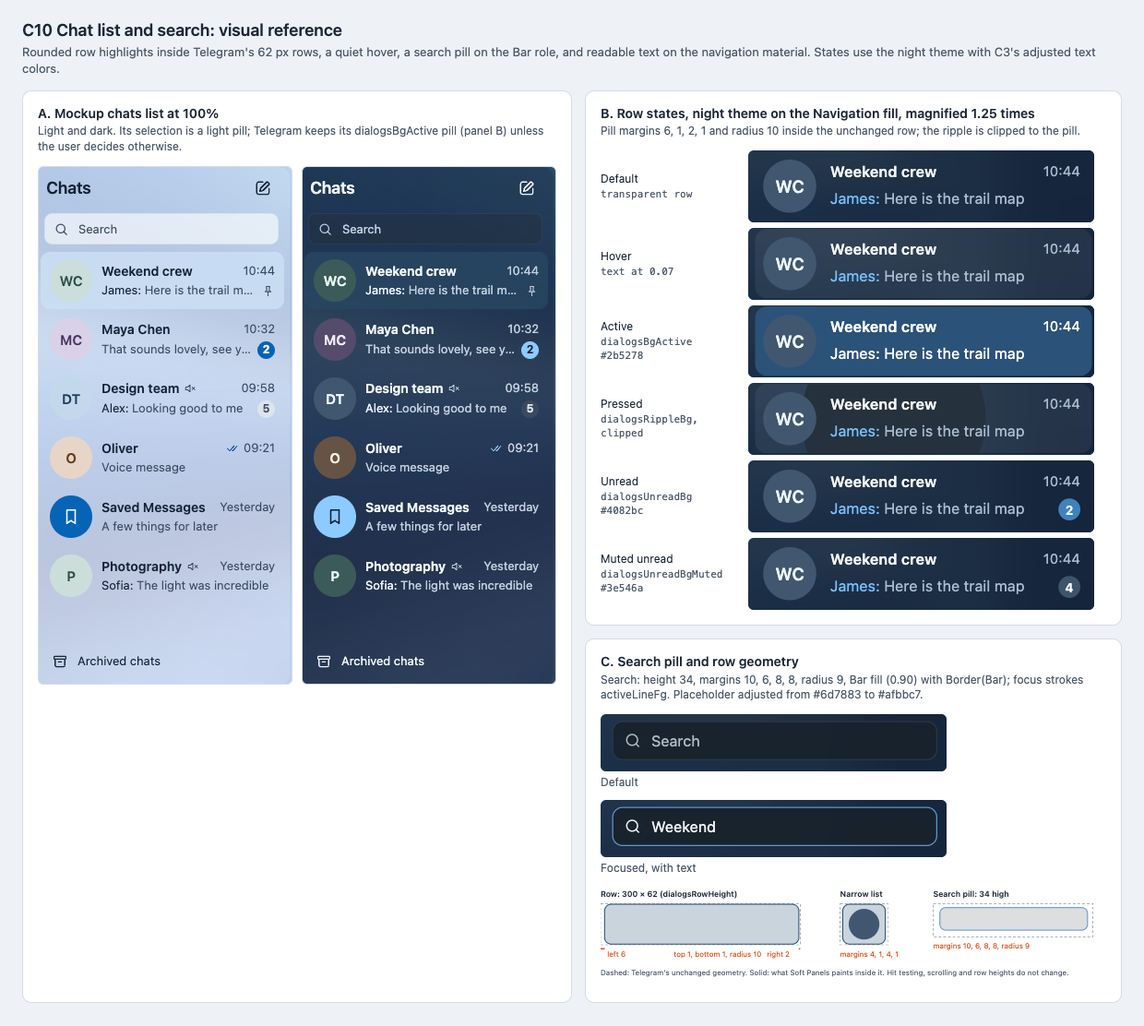
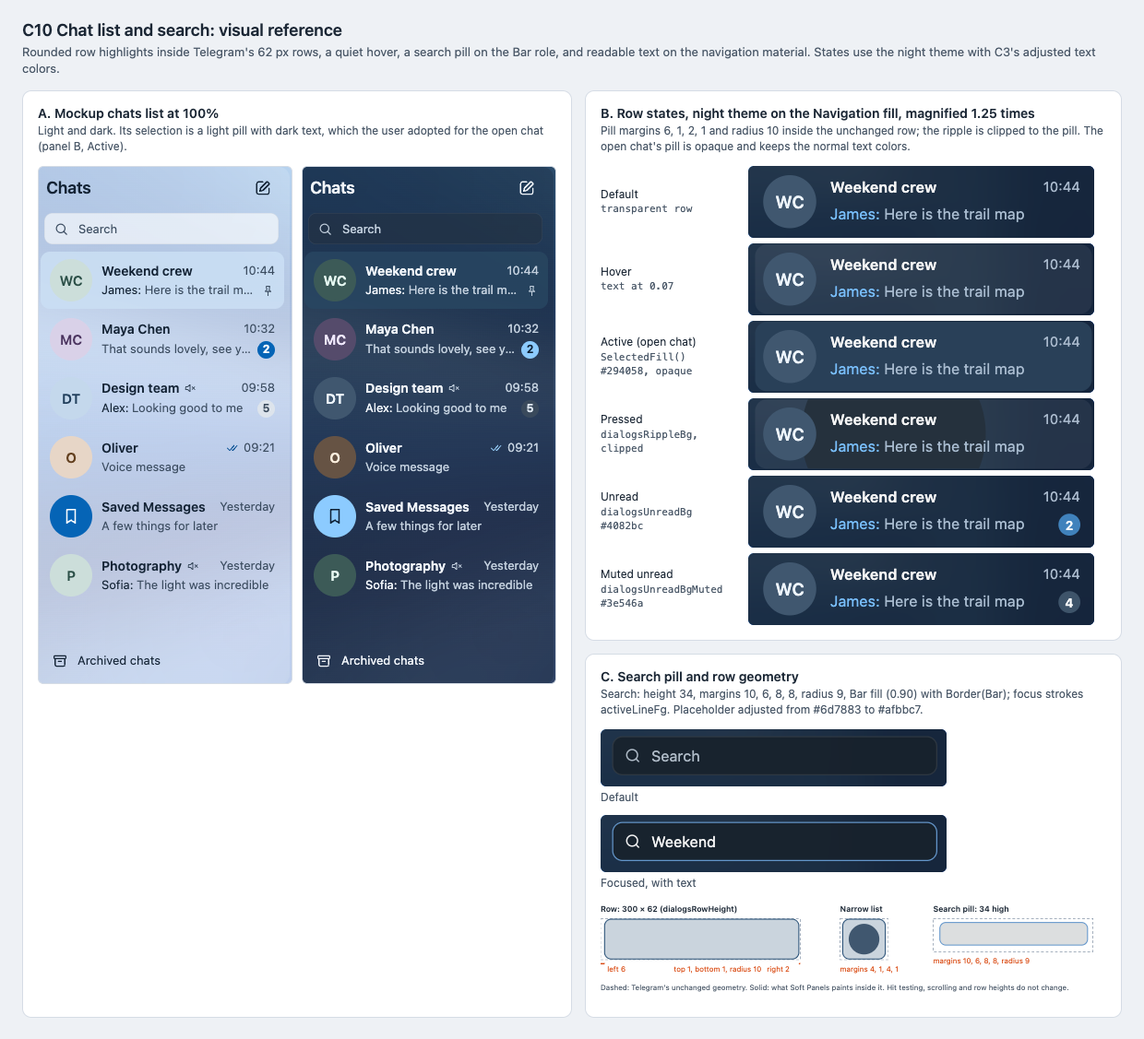
Resolved plan clashes and updated rail and list references.

diff --git a/docs/ui-modernization/component-references/c9-navigation-rail/navigation-rail.html b/docs/ui-modernization/component-references/c9-navigation-rail/navigation-rail.html
@@ -30,19 +30,18 @@ figcaption { margin-top: 4px; font-size: 12px; color: var(--page-muted); }
 .zoom { position: relative; isolation: isolate; height: 100px; border-radius: 6px; overflow: hidden; }
 .zoom::before { content: ""; position: absolute; inset: 0; z-index: -2; background: conic-gradient(from 218deg at 78% 54%, #122b5b 0deg, #2860a2 11deg, #78b6eb 25deg, #142d5f 40deg, #386fb5 52deg, #b9d4ec 64deg, #162f63 67deg, #1b4582 76deg, #7eb6de 93deg, #132c5b 108deg, #1c3d77 190deg, #122b5b 360deg); }
 .zoom .nav { position: absolute; inset: 0; z-index: -1; backdrop-filter: blur(32px) saturate(1.45); -webkit-backdrop-filter: blur(32px) saturate(1.45); background: var(--nav); }
-.zoom .scale { position: absolute; left: 50%; top: 50%; width: 72px; height: 62px; transform: translate(-50%, -50%) scale(1.5); }
-.light { --nav: rgba(233, 238, 245, .78); --text: #132335; --secondary: #3a4b5f; --accent: #004a8f; --accent-fill: #0564b6; --on-accent: #ffffff; --selected: #cbdff4; --hover: rgba(21, 38, 58, .06); --muted-fill: #dde4ec; --muted-text: #3b4b5d; --ring: #e9eef5; }
-.dark { --nav: rgba(27, 40, 56, .82); --text: #f2f6fb; --secondary: #c2cfdd; --accent: #9ad3ff; --accent-fill: #8ccbff; --on-accent: #0d1f33; --selected: #284661; --hover: rgba(238, 243, 249, .07); --muted-fill: #3a4a5c; --muted-text: #dbe4ee; --ring: #1b2838; }
+.zoom .scale { position: absolute; left: 50%; top: 50%; width: 64px; height: 62px; transform: translate(-50%, -50%) scale(1.5); }
+.light { --nav: rgba(233, 238, 245, .78); --text: #132335; --secondary: #3a4b5f; --accent: #004a8f; --accent-fill: #0564b6; --on-accent: #ffffff; --selected: #c6e5f7; --hover: rgba(21, 38, 58, .06); --muted-fill: #dde4ec; --muted-text: #3b4b5d; --ring: #e9eef5; }
+.dark { --nav: rgba(27, 40, 56, .82); --text: #f2f6fb; --secondary: #c2cfdd; --accent: #9ad3ff; --accent-fill: #8ccbff; --on-accent: #0d1f33; --selected: #294058; --hover: rgba(238, 243, 249, .07); --muted-fill: #3a4a5c; --muted-text: #dbe4ee; --ring: #1b2838; }
 .btn { position: absolute; left: 6px; right: 6px; top: 4px; height: 54px; border-radius: 10px; display: flex; flex-direction: column; align-items: center; justify-content: center; gap: 3px; color: var(--secondary); font-size: 11px; }
 .btn svg { width: 20px; height: 20px; fill: none; stroke: currentColor; stroke-width: 1.7; stroke-linecap: round; stroke-linejoin: round; }
 .btn[data-state="hover"] { background: var(--hover); }
-.btn[data-state="selected"], .btn[data-state="focused"], .btn[data-state="dragging"] { background: var(--selected); color: var(--text); }
-.btn[data-state="selected"] svg, .btn[data-state="focused"] svg, .btn[data-state="dragging"] svg { color: var(--accent); }
+.btn[data-state="selected"], .btn[data-state="focused"], .btn[data-state="dragging"] { background: var(--selected); color: var(--accent); }
 .btn[data-state="focused"] { outline: 2px solid var(--accent); outline-offset: -2px; }
 .btn[data-state="dragging"] { top: -2px; box-shadow: 0 4px 10px rgba(0, 0, 0, .22); }
 .marker { position: absolute; left: 0; top: 21px; width: 3px; height: 20px; border-radius: 2px; background: var(--accent); }
 .dragging .marker { top: 15px; }
-.badge { position: absolute; top: 2px; left: 35px; min-width: 17px; height: 17px; padding: 0 5px; border-radius: 9px; display: grid; place-items: center; font-size: 10px; font-weight: 700; line-height: 1; background: var(--accent-fill); color: var(--on-accent); box-shadow: 0 0 0 2px var(--ring); }
+.badge { position: absolute; top: 2px; left: 31px; min-width: 17px; height: 17px; padding: 0 5px; border-radius: 9px; display: grid; place-items: center; font-size: 10px; font-weight: 700; line-height: 1; background: var(--accent-fill); color: var(--on-accent); box-shadow: 0 0 0 2px var(--ring); }
 .badge[data-muted] { background: var(--muted-fill); color: var(--muted-text); }
 .values { margin-top: 12px; display: grid; grid-template-columns: repeat(4, 1fr); gap: 6px 14px; font-size: 12px; }
 .values div span { color: var(--page-muted); }
@@ -64,16 +63,16 @@ figcaption { margin-top: 4px; font-size: 12px; color: var(--page-muted); }
     </section>
     <div class="stack">
     <section class="panel">
-      <h2>B. Button states at Telegram's rail width (72 px), magnified 1.5 times</h2>
-      <p class="lead">Pills and the marker are painted on FiltersMenu's container under transparent SideBarButtons. Each state must stay reachable by mouse and keyboard.</p>
+      <h2>B. Button states at the Soft Panels rail width (64 px), magnified 1.5 times</h2>
+      <p class="lead">A light rail, as the user chose: labels in windowSubTextFg and icons in menuIconFg, the selected pill opaque SelectedFill() with label and icon in windowActiveTextFg. Pills and the marker are painted on FiltersMenu's container under transparent SideBarButtons. Each state must stay reachable by mouse and keyboard.</p>
       <div class="states" data-states></div>
       <div class="values">
-        <div><span>Rail width</span><br><span class="mono">windowFiltersWidth 72</span></div>
+        <div><span>Rail width</span><br><span class="mono">windowFiltersSoftPanelsWidth 64</span></div>
         <div><span>Button</span><br><span class="mono">min height 54, radius 10</span></div>
         <div><span>Container padding, gap</span><br><span class="mono">4, 6, 8; 4</span></div>
         <div><span>Marker</span><br><span class="mono">3 × 20, radius 2, x 0</span></div>
         <div><span>Hover</span><br><span class="mono">text at 0.06 / 0.07</span></div>
-        <div><span>Selected</span><br><span class="mono">sideBarBgActive; Bar fill tint</span></div>
+        <div><span>Selected</span><br><span class="mono">SelectedFill(), opaque</span></div>
         <div><span>Badge</span><br><span class="mono">height 17, ring 2 in Navigation fill</span></div>
         <div><span>Muted badge</span><br><span class="mono">sideBarBadgeBgMuted</span></div>
       </div>

diff --git a/docs/ui-modernization/component-references/c10-chat-list/chat-list.html b/docs/ui-modernization/component-references/c10-chat-list/chat-list.html
@@ -23,7 +23,7 @@ figcaption { margin-top: 4px; font-size: 12px; color: var(--page-muted); }
 .crop { width: 276px; height: 562px; border-radius: 6px; border: 1px solid var(--page-line); background-repeat: no-repeat; background-size: 956px 656px; background-position: -96px -60px; }
 
 /* Night theme on the Navigation fill (0.82) over Blue folds, text adjusted by C3. */
-.night { --nav: rgba(23, 33, 43, .82); --name: #f5f5f5; --text: #a8bbcf; --date: #abbbce; --service: #79bffc; --active: #2b5278; --active-fg: #ffffff; --hover: rgba(245, 245, 245, .07); --ripple: #25313d; --unread: #4082bc; --muted: #3e546a; --badge-fg: #ffffff; --placeholder: #afbbc7; --bar: rgba(23, 33, 43, .90); --edge: rgba(245, 245, 245, .10); --focus: #6396cb; }
+.night { --nav: rgba(23, 33, 43, .82); --name: #f5f5f5; --text: #a8bbcf; --date: #abbbce; --service: #79bffc; --active: #294058; --hover: rgba(245, 245, 245, .07); --ripple: #25313d; --unread: #4082bc; --muted: #3e546a; --badge-fg: #ffffff; --placeholder: #afbbc7; --bar: rgba(23, 33, 43, .90); --edge: rgba(245, 245, 245, .10); --focus: #6396cb; }
 .desk { position: relative; isolation: isolate; border-radius: 6px; overflow: hidden; }
 .desk::before { content: ""; position: absolute; inset: 0; z-index: -2; background: conic-gradient(from 218deg at 78% 54%, #122b5b 0deg, #2860a2 11deg, #78b6eb 25deg, #142d5f 40deg, #386fb5 52deg, #b9d4ec 64deg, #162f63 67deg, #1b4582 76deg, #7eb6de 93deg, #132c5b 108deg, #1c3d77 190deg, #122b5b 360deg); }
 .desk .nav { position: absolute; inset: 0; z-index: -1; backdrop-filter: blur(32px) saturate(1.45); -webkit-backdrop-filter: blur(32px) saturate(1.45); background: var(--nav); }
@@ -40,8 +40,6 @@ figcaption { margin-top: 4px; font-size: 12px; color: var(--page-muted); }
 .list-row .text b { font-weight: 400; color: var(--service); }
 .list-row .badge { position: absolute; right: 12px; top: 33px; min-width: 19px; height: 19px; padding: 0 6px; border-radius: 10px; background: var(--unread); color: var(--badge-fg); font-size: 11px; font-weight: 600; display: grid; place-items: center; }
 .list-row .badge.muted { background: var(--muted); }
-.list-row[data-state="active"] { color: var(--active-fg); }
-.list-row[data-state="active"] .date, .list-row[data-state="active"] .text, .list-row[data-state="active"] .text b { color: var(--active-fg); }
 .scaled { transform: scale(1.25); transform-origin: 0 0; }
 .cell { width: 375px; height: 78px; }
 
@@ -62,7 +60,7 @@ svg text { font-family: "Segoe UI Variable Text", "Segoe UI", system-ui, sans-se
   <div class="row-layout">
     <section class="panel">
       <h2>A. Mockup chats list at 100%</h2>
-      <p class="lead">Light and dark. Its selection is a light pill; Telegram keeps its dialogsBgActive pill (panel B) unless the user decides otherwise.</p>
+      <p class="lead">Light and dark. Its selection is a light pill with dark text, which the user adopted for the open chat (panel B, Active).</p>
       <div class="crops">
         <div class="crop" style="background-image:url(../c7-shell-layout/mockup-light.png)"></div>
         <div class="crop" style="background-image:url(../c7-shell-layout/mockup-dark.png)"></div>
@@ -71,7 +69,7 @@ svg text { font-family: "Segoe UI Variable Text", "Segoe UI", system-ui, sans-se
     <div class="stack">
       <section class="panel">
         <h2>B. Row states, night theme on the Navigation fill, magnified 1.25 times</h2>
-        <p class="lead">Pill margins 6, 1, 2, 1 and radius 10 inside the unchanged row; the ripple is clipped to the pill.</p>
+        <p class="lead">Pill margins 6, 1, 2, 1 and radius 10 inside the unchanged row; the ripple is clipped to the pill. The open chat's pill is opaque and keeps the normal text colors.</p>
         <div class="states" data-states></div>
       </section>
       <section class="panel">
@@ -100,7 +98,7 @@ svg text { font-family: "Segoe UI Variable Text", "Segoe UI", system-ui, sans-se
   const states = [
     ['Default', 'transparent row', row('default')],
     ['Hover', 'text at 0.07', row('hover')],
-    ['Active', 'dialogsBgActive #2b5278', row('active')],
+    ['Active (open chat)', 'SelectedFill() #294058, opaque', row('active')],
     ['Pressed', 'dialogsRippleBg, clipped', row('pressed')],
     ['Unread', 'dialogsUnreadBg #4082bc', row('default', { badge: 'unread' })],
     ['Muted unread', 'dialogsUnreadBgMuted #3e546a', row('default', { badge: 'muted' })],

diff --git a/docs/ui-modernization/plans/2026-10-29-info-settings.md b/docs/ui-modernization/plans/2026-10-29-info-settings.md
@@ -25,8 +25,8 @@
 
 ## Review Focus
 
-- Info pane opened in the third column, then the window narrowed until it moves to a layer: the background switches role without a stale panel. Pinned by Task 1 Step 4.
-- Shared media tabs in a profile (`info_profile_tabs_host.cpp` slide grabs): no opaque frames. Pinned by Task 1 Step 3.
+- Info pane opened in the third column, then the window narrowed until it moves to a layer: the background switches role without a stale panel. Pinned by Task 1 Step 5.
+- Shared media tabs in a profile (`info_profile_tabs_host.cpp` slide grabs): no opaque frames. Pinned by Task 1 Step 4.
 - Passcode lock with material on: the unlock field stays readable on the busiest test wallpaper. Pinned by Task 2 Step 3.
 - Sign-in with a QR code: the QR stays black on white, never on material. Pinned by Task 2 Step 3.
 - Upgrade from a build with the experimental switch on: Soft Panels stays on after promotion. Pinned by Task 3 Step 3.
@@ -39,6 +39,7 @@
 - Modify: `Telegram/SourceFiles/info/info_content_widget.cpp`, `info/info_top_bar.cpp`, `info/info_wrap_widget.cpp`
 - Modify: `Telegram/SourceFiles/info/profile/tabs/info_profile_tabs_host.cpp`, `info/media/info_media_grid_zoom.cpp`, `info/profile/info_profile_balance_pill.cpp`
 - Modify: `Telegram/SourceFiles/settings/settings_intro.cpp`
+- Modify: `Telegram/SourceFiles/info/info.style`, `info/profile/info_profile_top_bar.cpp`, `settings/sections/settings_premium.cpp`, `settings_credits.cpp`, `settings_business.cpp`, `info/bot/starref/info_bot_starref_join_widget.cpp`, `info_bot_starref_setup_widget.cpp`
 
 **Interfaces:**
 - Consumes: `Ui::ControlFill` and the soft controls switch from [shared controls](2026-10-30-shared-controls.md), which already maps `SettingsButton`, `PeerListContent` and `BoxContentDivider`.
@@ -47,25 +48,29 @@
 
 `ContentWidget::paintEvent` fills `_bg`: paint it with `PaintSurface(..., Surface::Conversation, _bg)` when the content is in a panel, or `Surface::Popup` when its wrap is a layer (`Info::Wrap::Layer`); replace its opaque attribute with `SetOpaquePaint(this, true)`. Same for `TopBar::paintEvent`'s brush fill; keep its existing `_roundRect` rule for the opaque attribute.
 
-- [ ] **Step 2: Settings intro and rows**
+- [ ] **Step 2: Top bar height**
+
+The chat header is `softPanelsTopBarHeight` (56 px, C11) under Soft Panels, so the info pane's top bar in the third column must match it. Add `infoTopBarSoftPanels: InfoTopBar(infoTopBar)` to `info.style` (with `using "window/window_soft_panels.style"`), with `height: softPanelsTopBarHeight`, back, close and search buttons of the same height, and the title position moved down by half the difference. Add `[[nodiscard]] const style::InfoTopBar &Info::TopBarStyle();` returning it under Soft Panels and `st::infoTopBar` otherwise, and use it at every read of `st::infoTopBar`: `info_wrap_widget.cpp`, `info_profile_top_bar.cpp`, `settings_premium.cpp`, `settings_credits.cpp`, `settings_business.cpp` and the two star referral widgets. The layer top bar (`infoLayerTopBar`) is already 56 px and stays.
+
+- [ ] **Step 3: Settings intro and rows**
 
 `settings_intro.cpp` sets `WA_OpaquePaintEvent` on its wrap: use `SetOpaquePaint`.
 
 Every row is a `Ui::SettingsButton`. The row styles `settingsButton` and `infoProfileButton` derive from `lib_ui`'s `defaultSettingsButton` and are used in 53 files, and each row paints its `textBg` (`windowBg`) under itself. C17 already maps that fill and the `windowBgOver` hover, and turns divider bands into the soft band. Check every top-level settings section for a row style whose `textBg` is not a surface color; such a row keeps its fill, so record it with the reason.
 
-- [ ] **Step 3: Grabs**
+- [ ] **Step 4: Grabs**
 
 The grab audit assigned `info_wrap_widget.cpp`, `info_profile_tabs_host.cpp`, `info_media_grid_zoom.cpp` and `info_profile_balance_pill.cpp` here: convert each animation grab to `Ui::Material::Grab` and paint the role under the animation, as C5 did for sections.
 
-- [ ] **Step 4: Build and check**
+- [ ] **Step 5: Build and check**
 
 Run: `cmd /c .ai\setup\build-target.cmd Telegram`
-Open a user, group and channel profile in the third column; switch shared media tabs; zoom the media grid; open Settings and walk every top-level section; narrow the window so the info pane becomes a layer and widen it back.
+Open a user, group and channel profile in the third column; switch shared media tabs; zoom the media grid; open Settings and walk every top-level section; narrow the window so the info pane becomes a layer and widen it back. With a chat and its info pane side by side, the two headers share one bottom line.
 
-- [ ] **Step 5: Commit**
+- [ ] **Step 6: Commit**
 
 ```bash
-git add Telegram/SourceFiles/info Telegram/SourceFiles/settings/settings_intro.cpp
+git add Telegram/SourceFiles/info Telegram/SourceFiles/settings/settings_intro.cpp Telegram/SourceFiles/settings/sections
 git commit -m "Brought info and settings sections into Soft Panels."
 ```
 

diff --git a/docs/ui-modernization/component-references/c9-navigation-rail/README.md b/docs/ui-modernization/component-references/c9-navigation-rail/README.md
@@ -6,7 +6,7 @@ Date: 2026-10-29. Status: proposal. Component: C9 in the
 
 C9 restyles the folder rail and the main menu drawer on the shared
 navigation material. This reference shows the mockup's rail and drawer, and
-every button state the plan lists at Telegram's own rail width.
+every button state the plan lists at the Soft Panels rail width.
 
 ## Files
 
@@ -24,19 +24,20 @@ every button state the plan lists at Telegram's own rail width.
 | Panel | Plan task | What it pins |
 | --- | --- | --- |
 | A. Mockup rail | Task 1 | Menu button, folders with icon and label, selected pill with marker, badges, Edit at the bottom. |
-| B. Button states | Tasks 1–2, Task 4 States row | Default, hover, selected, keyboard focus, unread badge, muted-only badge and dragging, light and dark, at 72 px and magnified 1.5 times, with the plan's sizes listed below them. |
+| B. Button states | Tasks 1–2, Task 4 States row | Default, hover, selected, keyboard focus, unread badge, muted-only badge and dragging, light and dark, on the light rail at 64 px and magnified 1.5 times, with the plan's sizes listed below them. |
 | C. Main menu drawer | Task 3 | Popup fill, rounded right corners, rounded rows, and the layer dim outside the corners. |
 
 ## Notes
 
-- The mockup's rail is 64 px. Panel B uses Telegram's 72 px; the user then
-  adopted 64 px under Soft Panels (2026-10-31).
-- Colors are the mockup's tokens (`--selected`, `--hover`, `--accent`,
-  `--muted-fill`). The app uses its palette entries (`sideBarBgActive`,
-  `sideBarBadgeBgMuted` and others). In the day theme they were made for a
-  dark sidebar. The user chose a light rail (2026-10-31): under Soft Panels
-  it takes the chats list's colors and `Ui::Material::SelectedFill()`, close
-  to the mockup's `--selected`.
+- The rail is 64 px, the mockup's width, which the user adopted under Soft
+  Panels (2026-10-31): `windowFiltersSoftPanelsWidth`. Telegram's 72 px stays
+  with Soft Panels off.
+- The user chose a light rail (2026-10-31). Panel B draws it: the selected
+  pill is the opaque `Ui::Material::SelectedFill()` (`#c6e5f7` day,
+  `#294058` night), and its label and icon take the accent color, as
+  `windowActiveTextFg` does. Other colors are the mockup's tokens (`--hover`,
+  `--accent`, `--muted-fill`); the app uses its palette entries, adjusted by
+  C3 and C18.
 - The keyboard focus ring is a proposal: a 2 px accent outline on the pill.
   Telegram's current focus style for `SideBarButton` must be rechecked in
   `lib_ui`.

diff --git a/docs/ui-modernization/component-references/c10-chat-list/README.md b/docs/ui-modernization/component-references/c10-chat-list/README.md
@@ -20,7 +20,7 @@ row states in the night theme and the exact geometry.
 | Panel | Plan task | What it pins |
 | --- | --- | --- |
 | A. Mockup list | Tasks 1–2 | Search pill, rows with avatars, unread and muted badges, archive row. |
-| B. Row states | Task 1, Task 3 Step 2 | Default, hover, active, pressed with the ripple clipped to the pill, unread and muted badges. Night theme colors on the Navigation fill (0.82). Names, previews and times use C3's adjusted colors. |
+| B. Row states | Task 1, Task 3 Step 2 | Default, hover, the open chat's opaque `SelectedFill()` pill with normal text colors, pressed with the ripple clipped to the pill, unread and muted badges. Night theme colors on the Navigation fill (0.82). Names, previews and times use C3's adjusted colors. |
 | C. Search and geometry | Tasks 1–2 | Search pill default and focused; row pill margins 6, 1, 2, 1 with radius 10; narrow-list margins 4, 1, 4, 1; search pill 34 high with margins 10, 6, 8, 8 and radius 9. |
 
 ## Contrast in the night theme
@@ -54,8 +54,9 @@ the Navigation fill (0.82 of `#17212b`) over black and white backdrops:
 ## Notes
 
 - The mockup's selection is a light pill with dark text. The user adopted it
-  (2026-10-31): under Soft Panels the open chat is a `SelectedFill()` pill
-  with normal text colors, which this sheet, drawn before, does not show.
+  (2026-10-31): under Soft Panels the open chat is the opaque
+  `SelectedFill()` pill (`#294058` in the night theme panel B draws) with
+  normal text colors, in place of `dialogsBgActive` with white text.
 - Row height (62), avatar size (46) and badge height (19) are Telegram's.
   The pill is painted inside the row, so hit testing and scrolling do not
   change.

diff --git a/docs/ui-modernization/plans/2026-10-29-navigation-rail.md b/docs/ui-modernization/plans/2026-10-29-navigation-rail.md
@@ -21,7 +21,7 @@
 - At 100 % scale: buttons `54` px minimum height (icons-only and main menu already use it), corner radius `10`, `4` px vertical gap, container padding `4, 6, 8` (top, sides, bottom); marker `3 × 20` px, radius `2`, at the rail's left edge, accent color.
 - Hover fill: primary text at alpha `0.06` (light) / `0.07` (dark), the exploration's `--hover`.
 - Light rail (user decision 2026-10-31): under Soft Panels the rail is part of the navigation panel, so its solid color is `dialogsBg` and its parallel styles take the chats list's colors: labels `windowSubTextFg`, icons `menuIconFg`, and the selected label and icon `windowActiveTextFg`. Each is already adjusted by C3 or C18 while material is active.
-- Selected fill: `Ui::Material::SelectedFill()` ([element styling](../architecture.md#element-styling-c9c15)), in solid and material mode. `sideBarBgActive` (`#17212b` in the day theme) is not used under Soft Panels.
+- Selected fill: `Ui::Material::SelectedFill()` ([element styling](../architecture.md#element-styling-c9c15)), opaque in solid and material mode, so the adjusted label and icon colors keep their contrast on it. `sideBarBgActive` (`#17212b` in the day theme) is not used under Soft Panels.
 - Without Soft Panels the rail keeps its upstream colors; while material is active they are raised by C3 (`sideBarTextFg`, `sideBarTextFgActive`, added here) and C18 (the icons).
 - Main menu: width stays `mainMenuWidth`; right corner radius `14`; row radius `8`; Popup role.
 - Every behavior stays: folder click, drag reorder in edit mode, context menu, unread counters, muted badges, "Edit" entry, premium lock, tab and keyboard order.

diff --git a/docs/ui-modernization/plans/2026-10-30-shared-controls.md b/docs/ui-modernization/plans/2026-10-30-shared-controls.md
@@ -54,7 +54,7 @@
   - `[[nodiscard]] QColor ResolveControlFill(const QColor &fill, const SoftControlColors &colors);` — pure: a fully transparent color when `fill` is opaque and equals `windowBg` or `boxBg`; `colors.hover` when it equals `windowBgOver`; `fill` otherwise.
   - `void SetSoftControls(bool enabled);`, `[[nodiscard]] bool SoftControls();` and `void SetSoftControlHover(QColor hover);` — process-wide; off by default.
   - `[[nodiscard]] QColor ControlFill(const style::color &fill);` — `fill->c` while off; otherwise `ResolveControlFill` with `st::windowBg`, `st::boxBg`, `st::windowBgOver` and the hover.
-- Produces, in `namespace Ui::Material` (tdesktop, `ui/ui_material.h`): `[[nodiscard]] QColor SelectedFill();` — `st::windowBgActive` at alpha 0.30, the selected pill of the rail (C9) and the open chat row (C10), as the [element styling](../architecture.md#element-styling-c9c15) contract defines it.
+- Produces, in `namespace Ui::Material` (tdesktop, `ui/ui_material.h`): `[[nodiscard]] QColor SelectedFill();` — `st::windowBgActive` at alpha 0.30 composited over `st::windowBg`, returned opaque and recomputed on palette changes; the selected pill of the rail (C9) and the open chat row (C10), as the [element styling](../architecture.md#element-styling-c9c15) contract defines it.
 
 - [ ] **Step 1: Write the failing test**
 

diff --git a/docs/ui-modernization/plans/2026-10-29-chat-list.md b/docs/ui-modernization/plans/2026-10-29-chat-list.md
@@ -19,7 +19,7 @@
 - All [ground rules](README.md#ground-rules).
 - Row pill at 100 % scale: margins `6, 1, 2, 1` (left, top, right, bottom) inside the row rect, radius `10`.
 - Hover fill: primary text color at alpha `0.06` light / `0.07` dark.
-- Active (open chat) row under Soft Panels: the light selected pill `Ui::Material::SelectedFill()` (C17) with the row's normal text, badge and icon colors, the exploration's light selection (user decision 2026-10-31). Without Soft Panels it keeps `dialogsBgActive` and its `*Active` colors.
+- Active (open chat) row under Soft Panels: the opaque light selected pill `Ui::Material::SelectedFill()` (C17) with the row's normal text, badge and icon colors, the exploration's light selection (user decision 2026-10-31). Without Soft Panels it keeps `dialogsBgActive` and its `*Active` colors.
 - Search pill: height `34`, margins `10, 6, 8, 8`, radius `9`, Bar role, border `Border(Surface::Bar)`.
 - Row height, avatar size, fonts, badges sizes (`dialogsUnreadHeight` 19 px) stay Telegram's.
 - Every behavior stays: click, middle click, context menu, drag-to-pin, swipe actions, keyboard navigation, topics expansion, archive collapse, stories strip, search scopes and filters.

diff --git a/docs/ui-modernization/plans/2026-10-29-conversation-chrome.md b/docs/ui-modernization/plans/2026-10-29-conversation-chrome.md
@@ -17,7 +17,7 @@
 ## Global Constraints
 
 - All [ground rules](README.md#ground-rules).
-- Header height under Soft Panels: `softPanelsTopBarHeight` 56 px, the exploration's (user decision 2026-10-31); upstream keeps `topBarHeight` (54 px). The chats list header aligns with it, as it does today.
+- Header height under Soft Panels: `softPanelsTopBarHeight` 56 px, the exploration's (user decision 2026-10-31); upstream keeps `topBarHeight` (54 px). The chats list header aligns with it, as it does today, and C15 gives the info pane's top bar the same height.
 - Bar pill at 100 % scale: margins `12, 0, 12, 4` inside the bar's row, radius `9`, Bar role, border `Border(Surface::Bar)`; the existing accent line of `Ui::MessageBar` stays.
 - Chat background pref: key `window_material_chat_background`, `bool`, default `false`; label "Show window material behind messages"; shown only when `Window::Material::Capable()`.
 - With the pref off, the user's wallpaper fills the message area exactly as today, also with material active.

diff --git a/docs/ui-modernization/architecture.md b/docs/ui-modernization/architecture.md
@@ -396,9 +396,12 @@ are style values, so they follow the interface scale.
   custom and cloud themes work unchanged.
 - The selected pill of the rail (C9) and of the open chat row (C10) is
   `[[nodiscard]] QColor Ui::Material::SelectedFill()` in `ui/ui_material.h`:
-  `windowBgActive` at alpha 0.30, painted over the panel. Over white and the
-  night panel it is close to the mockup's `#cbdff4` and `#284661`. Content on
-  it keeps its normal, not its `*Active`, colors.
+  `windowBgActive` at alpha 0.30 composited over `windowBg`, an opaque color
+  (`#c6e5f7` day, `#294058` night, close to the mockup's `#cbdff4` and
+  `#284661`). It is painted opaque in solid and material mode: C3 adjusts text
+  against the panel, so over a translucent pill adjusted secondary text would
+  fall to 3.9:1 (day) and 3.5:1 (night). Content on it keeps its normal, not
+  its `*Active`, colors.
 
 ### Adjusted palette entries
 
